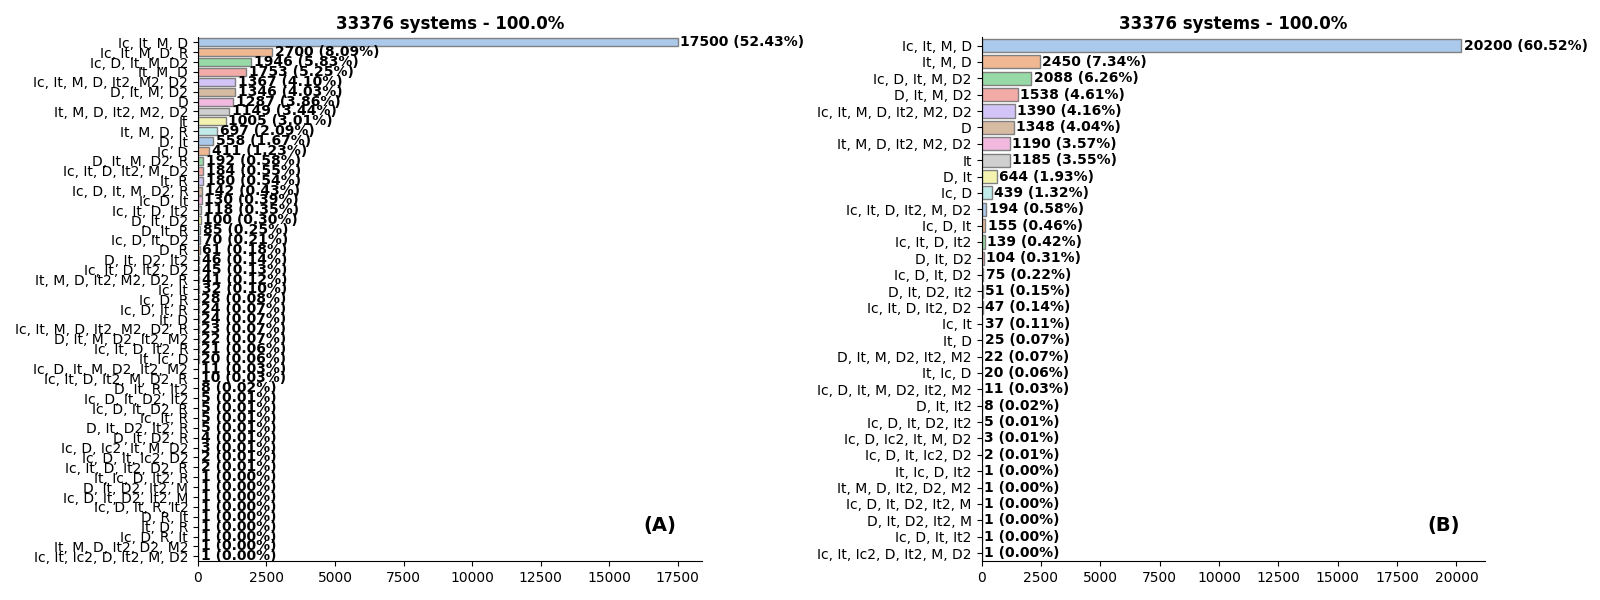
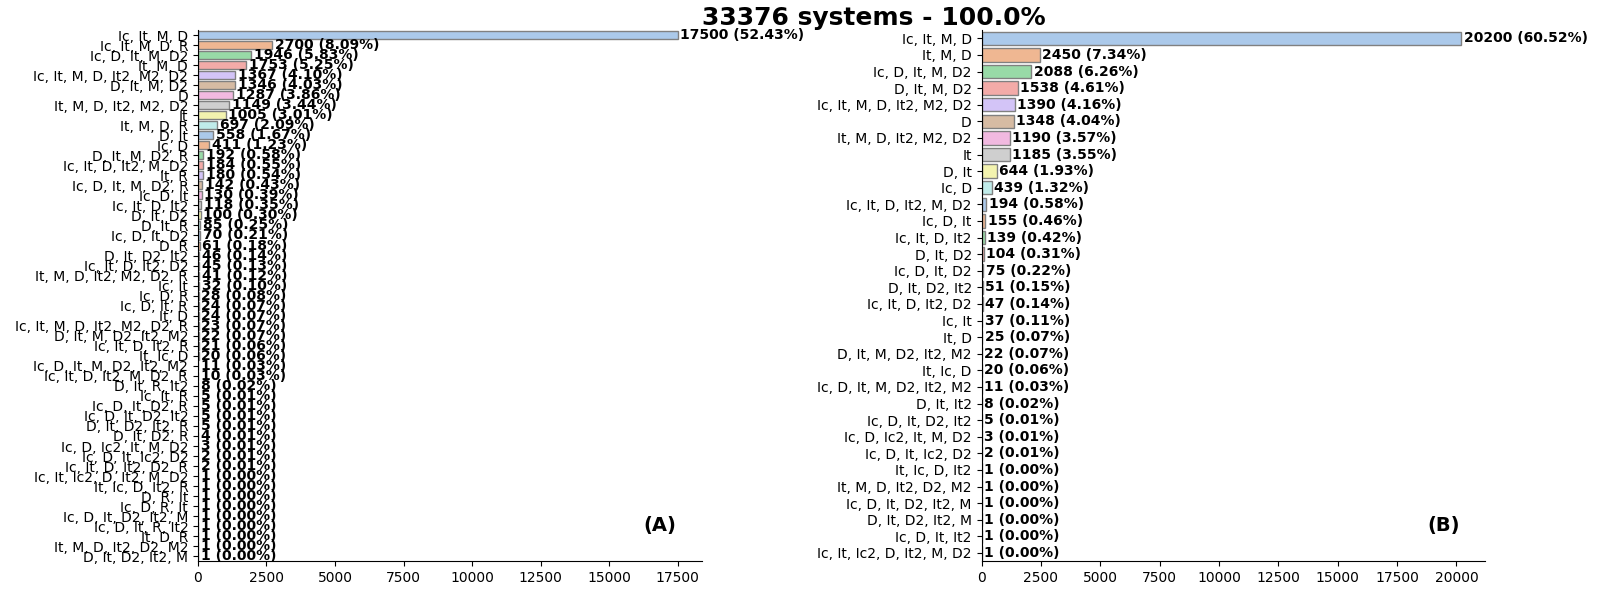
Updated colors for matching species

Changed region(s): [[0.0, 0.0, 1.0, 0.96], [0.5312, 0.9, 0.5938, 0.93]]

diff --git a/src_manuscript_life-cycle/barplot_statistics.py b/src_manuscript_life-cycle/barplot_statistics.py
@@ -22,7 +22,7 @@ def process_df(df, percentage_threshold=1, filter_df=False, exclude_residual=Fal
     
     return processed_df
 
-def plot_barplot(df, label, ax, filter=False):
+def plot_barplot(df, label, ax, suffix, filter=False):
     # Mapping labels to the desired scheme
     label_mapping = {
         'incipient': 'Ic',
@@ -36,9 +36,6 @@ def plot_barplot(df, label, ax, filter=False):
         'residual': 'R'
     }
 
-    total_count = df['Total Count'].sum()
-    total_percentage = df['Percentage'].sum()
-
     # Convert 'Type of System' column to string to handle NaN values
     df['Type of System'] = df['Type of System'].astype(str)
 
@@ -48,9 +45,24 @@ def plot_barplot(df, label, ax, filter=False):
     # Determine the orientation based on the filter flag
     orient = 'h' if not filter else 'v'
 
-    # Create a bar plot using Seaborn on the provided axes
-    sns.barplot(x='Total Count', y='Type of System', data=df, orient=orient, ci=None, palette='pastel', edgecolor='grey', ax=ax)
-    ax.set_title(f'{total_count} systems - {total_percentage:.1f}%', fontweight='bold')
+    if suffix == 'filtered':
+        unique_sequences = df['Type of System'].str.replace(', R', '').str.replace('R, ', '').str.replace('R', '').unique()
+        palette = sns.color_palette("pastel", n_colors=len(unique_sequences))
+        color_mapping = dict(zip(unique_sequences, palette))
+        # Modify the sequence column to exclude the residual stage
+        df['Sequence Without R'] = df['Type of System'].str.replace(', R', '').str.replace('R, ', '').str.replace('R', '')
+
+        # Create a new color column using the mapping
+        df['Color'] = df['Sequence Without R'].map(color_mapping)
+
+        # Plot using the color column
+        sns.barplot(x='Total Count', y='Type of System', data=df, orient=orient, ci=None, 
+                    palette=df.set_index('Type of System')['Color'].to_dict(), edgecolor='grey', ax=ax)
+
+    else:
+        # Create a bar plot using Seaborn on the provided axes
+        sns.barplot(x='Total Count', y='Type of System', data=df, orient=orient, ci=None, palette='pastel', edgecolor='grey', ax=ax)
+    
     ax.text(0.95, 0.05, label, ha='right', fontsize=14, va='bottom', transform=ax.transAxes, fontweight='bold')
     
     # Add text annotations for total count and percentage on the right side of each bar
@@ -71,11 +83,19 @@ def plot_combined_barplots(df1, df2, output_directory, suffix):
     fig, axes = plt.subplots(1, 2, figsize=(16, 6))
 
     # Plot bar plots for df1 and df2 on the provided axes
-    plot_barplot(df1, '(A)', ax=axes[0], filter=False)
-    plot_barplot(df2, '(B)', ax=axes[1],  filter=False)
+    plot_barplot(df1, '(A)', axes[0], suffix)
+    plot_barplot(df2, '(B)', axes[1], suffix)
 
     # Adjust spacing
     plt.tight_layout()
+    plt.subplots_adjust(top=0.95)
+
+    # Add text annotations for total count and percentage
+    total_count = df1['Total Count'].sum()
+    total_percentage = df1['Percentage'].sum()
+    axes[0].text(1, 1, f'{total_count} systems - {total_percentage:.1f}%',
+                  fontweight='bold', fontsize=18,
+                 transform=axes[0].transAxes, ha='left', va='bottom')
 
     # Save the combined figure
     combined_output_file = os.path.join(output_directory, f'combined_barplots_{suffix}.png')
@@ -100,7 +120,7 @@ filtered_df = process_df(df, filter_df=True, exclude_residual=False)
 # df for phases with more than 1% and exluding residual phases
 filtered_df_exclude_residual = process_df(df, filter_df=True, exclude_residual=True)
 # export csv for further analysis
-filtered_df_exclude_residual.to_csv('../periods_species_statistics/total_count_of_systems_filtered.csv')
+filtered_df_exclude_residual.to_csv('../periods_species_statistics/70W-no-continental/total_count_of_systems_filtered.csv')
 
 # Combine the four bar plots into one figure
 plot_combined_barplots(df, df_excluded_residual, output_directory, 'total')

diff --git a/src_manuscript_life-cycle/panel_relevant_species.py b/src_manuscript_life-cycle/panel_relevant_species.py
@@ -65,16 +65,16 @@ results_dirs = {'RG1': '../raw_data/TRACK_BY_RG-20230606T185429Z-001/24h_1000km_
                'RG3': '../raw_data/TRACK_BY_RG-20230606T185429Z-001/24h_1000km_add_RG3_csv/'
                }
 
-systems_for_representing = ['SAt_19820363', # Ic, It, M, D
-                             '', # It, M, D
-                             'SAt_19800410', # Ic, D, It, M, D2
-                             '', # Ic, It, M, D, It2, M2, D2
-                             '', # D, It, M, D2
-                             'SAt_19790004', # D
-                             '', # It, M, D, It2, M2, D2
-                             'SAt_19820786', # It
-                             '', # D, It
-                             '', # Ic, D
+systems_for_representing = ['SAt_20101172', # Ic, It, M, D
+                            'SAt_19810380', # It, M, D
+                            'SAt_19800410', # Ic, D, It, M, D2
+                            'SAt_20020611', # Ic, It, M, D, It2, M2, D2
+                            'SAt_19991004', # D, It, M, D2
+                            'SAt_19790004', # D
+                            'SAt_20170528', # It, M, D, It2, M2, D2
+                            'SAt_19820786', # It
+                            'SAt_20060514', # D, It
+                            'SAt_20040233', # Ic, D
                             ]   
 
 labels = ["A)", "B)", "C)", "D)", "E)", "F)", "G)"]
